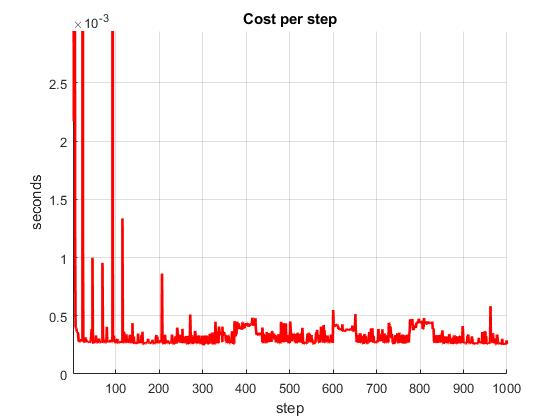
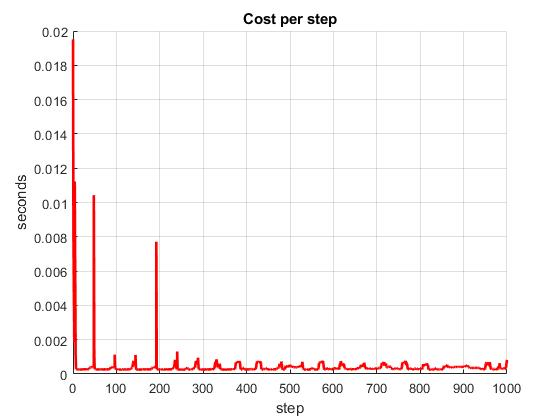
debug

Changed region(s): [[0.0304, 0.031, 0.9107, 0.9595]]

diff --git a/Lab1/calculo_global_cost.m b/Lab1/calculo_global_cost.m
@@ -1,18 +1,21 @@
 r = 1;
 m = 2;
-P = 100;
+P = 1000;
 
 onemaparray = [];
 manymaparray = [];
-for p = 1:1:100
+for p = 1:1:1000
     [C1map, C_many] = get_cost(r,m,P,p);
     onemaparray = [onemaparray, C1map];
     manymaparray = [manymaparray, C_many];
 end
 
-plot(1:1:100, onemaparray);
+plot(1:1:1000, onemaparray);
 hold on
-plot(1:1:100, manymaparray);
+plot(1:1:1000, manymaparray);
+xlabel('Size of local Map.');
+ylabel('Number of operations.');
+title('Theoretical number of operations given local map size.');
 
 function [C1map,C_total] = get_cost(r,m,P,p)
 %r   = 1;
